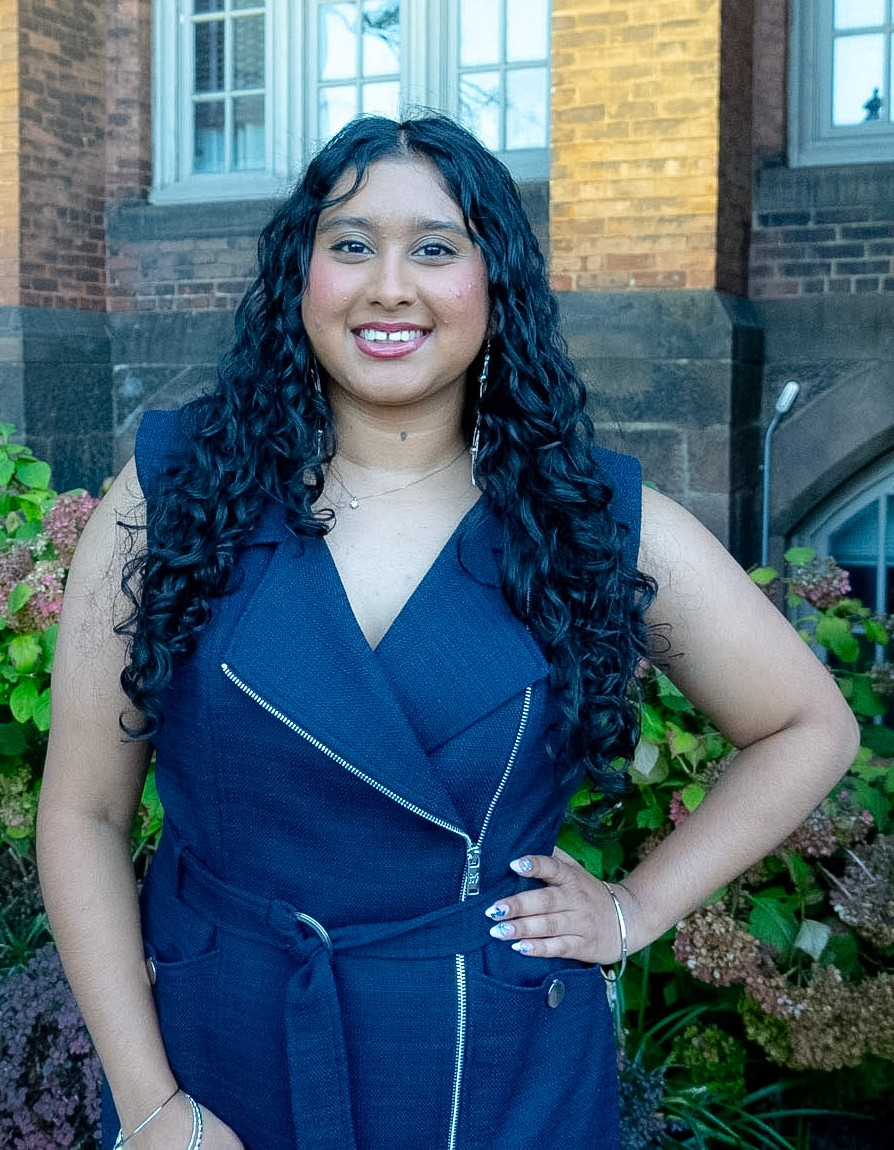
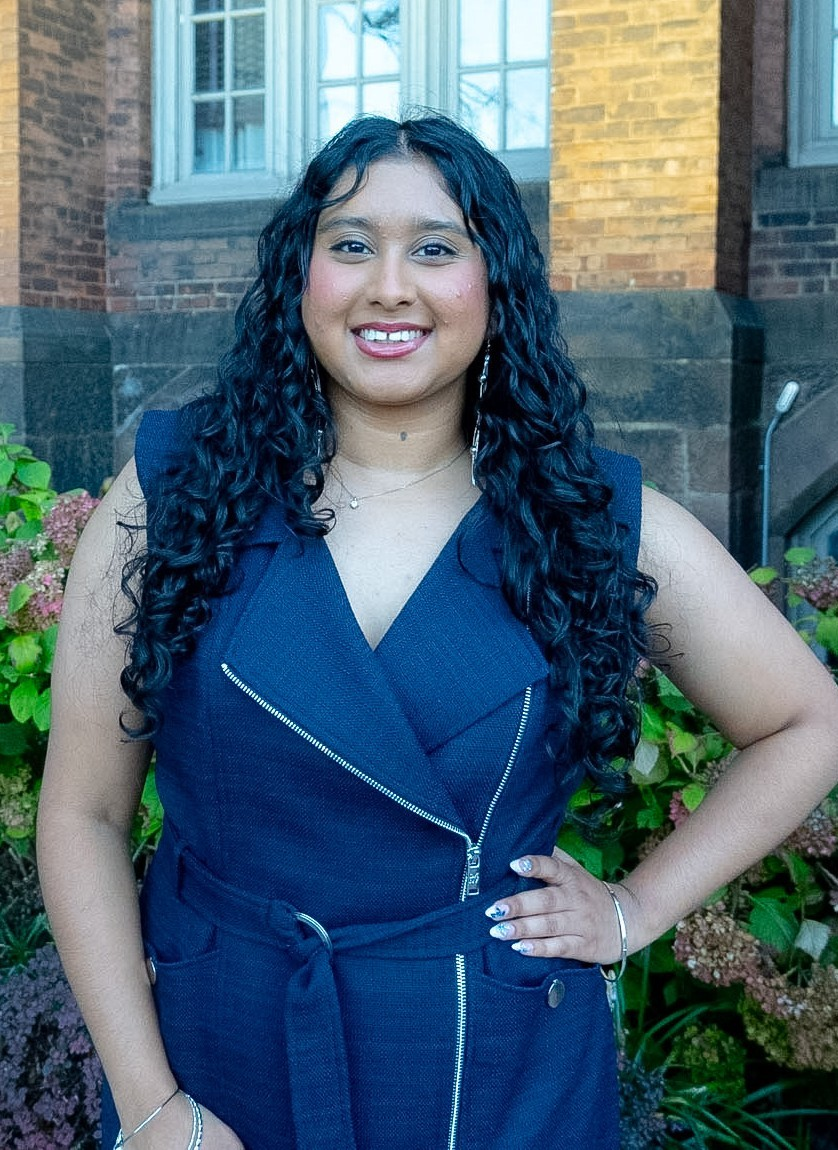
added angelo

diff --git a/screens/EBoardScreen.tsx b/screens/EBoardScreen.tsx
@@ -90,6 +90,17 @@ const BOARD_MEMBERS = [
     whyAlpfa: "ALPFA immediately became my family and continues to provide a supportive community where members can grow together.",
     role: "Support chapter leadership, grow membership, and help preserve the quality and family-centered culture of ALPFA NJIT.",
   },
+    {
+    name: 'Angelo Bustamante',
+    position: 'Treasurer',
+    major: 'Web and Information Systems',
+    classYear: 'NJIT',
+    image: require('../assets/images/Angelo-Bustamante.jpg'),
+    bio: 'I am a senior studying Web and Information Systems, I am half Uruguayan and half peruvian ',
+    goal: 'To keep all finances organized and manage the budget responsibly, and help increase funding for the future ',
+    whyAlpfa: '',
+    role: "Responsible for managing the chapter's finances, budgeting, and financial planning to ensure the organization's sustainability and growth."
+  },
   {
     name: 'Andrey Diaz-Ortega',
     position: 'Director of Community Service',
